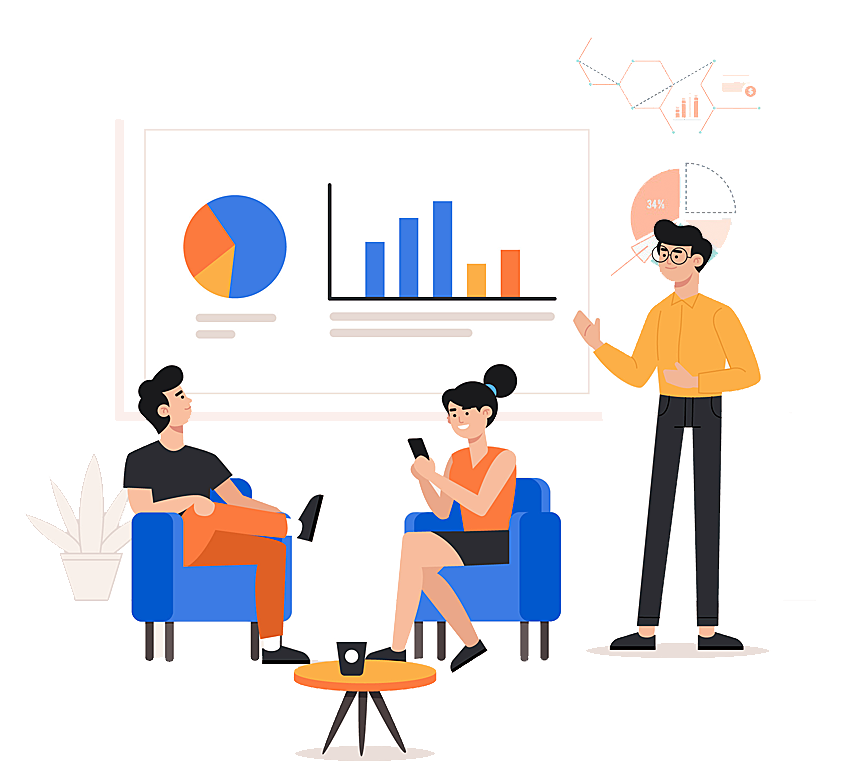
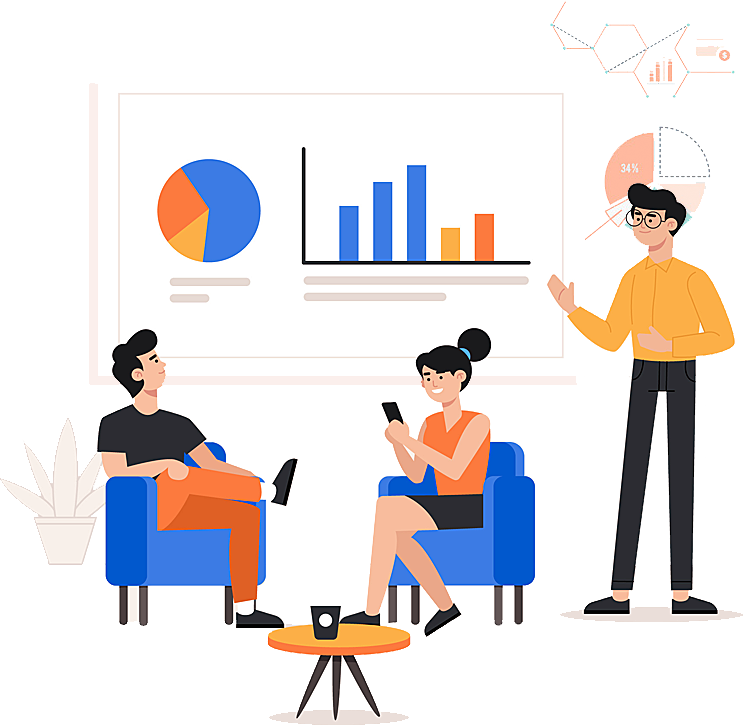
save point

Changed region(s): [[0.0309, 0.1214, 1.0, 1.0], [0.6801, 0.0607, 0.9892, 0.1821]]

diff --git a/#src/index.html b/#src/index.html
@@ -38,8 +38,8 @@
 	</header>
 
 	<section class="first-section">
-		<div class="wrapper">
-			
+		<div class="first-section__bacground"></div>
+		<div class="wrapper first-section__wrapper">
 			<div class="first-section__content">
 				<p class="first-section__pre-title">
 					70% Off for first 3 months
@@ -54,24 +54,20 @@
 					consequatur dolor repudiandae blanditiis 
 					tenetur recusandae aspernatur?
 				</p>
-			</div>
-
-			<div class="first-section__picture">
-				<div class="img-wrapper first-section__img-wrapper">
-					<img fclass="img first-section__img" src="img/img-1.png" alt="image">
+				<div class="first-section__buttons">
+					<a href="#" class="button first-section__button">
+						<span class="button__text">getting started</span>
+					</a>
+					<a href="" class="button first-section__button">
+						<span class="button__text">watch video</span>
+						<span class="button__icon"></span>
+					</a>
 				</div>
 			</div>
 
-			<div class="first-section__buttons">
-				<a href="#" class="button first-section__button">
-					<span class="button__text">getting started</span>
-				</a>
-				<a href="" class="button first-section__button">
-					<span class="button__text">watch video</span>
-					<span class="button__icon"></span>
-				</a>
+			<div class="first-section__picture">
+				<img class="image first-section__picture-image" src="img/img-1.png" alt="image">
 			</div>
-
 		</div>
 	</section>
 

diff --git a/#src/scss/layout/_first-section.scss b/#src/scss/layout/_first-section.scss
@@ -1,0 +1,40 @@
+.first-section {
+	position: relative;
+	padding-top: 130px;
+	overflow: hidden;
+}
+
+.first-section__bacground {
+	position: absolute;
+	top: -40px;
+	left: 44%;
+	width: 85.937%;
+	height: 0;
+	padding-bottom: 54.687%;
+	background: url("../img/bg-1.png") no-repeat center;
+	background-size: contain;
+}
+
+.first-section__wrapper {
+	display: flex;
+	column-gap: 15px;
+}
+
+.first-section__content {
+	flex: 0 0 44.827%;
+}
+
+.first-section__picture {
+	position: relative;
+	flex: 0 0 38.75vw;
+	height: 0;
+	padding-bottom: 37.76vw;
+}
+
+.first-section__picture-image {
+	position: absolute;
+	top: 0;
+	left: 0;
+}
+
+

diff --git a/#src/scss/main.scss b/#src/scss/main.scss
@@ -12,6 +12,7 @@
 @@include('base/_buttons.scss')
 @@include('layout/_wrapper.scss')
 @@include('layout/_header.scss')
+@@include('layout/_first-section.scss')
 
 
 

diff --git a/#src/scss/layout/_header.scss b/#src/scss/layout/_header.scss
@@ -1,3 +1,8 @@
+.header {
+	position: absolute;
+	width: 100%;
+}
+
 .header__wrapper {
 	display: flex;
 	height: 110px;
